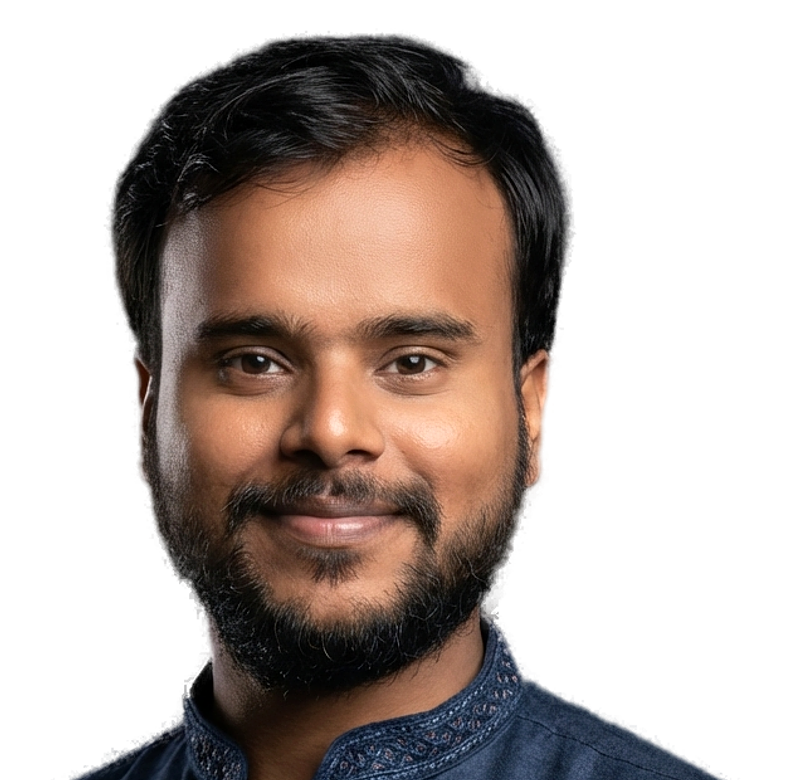
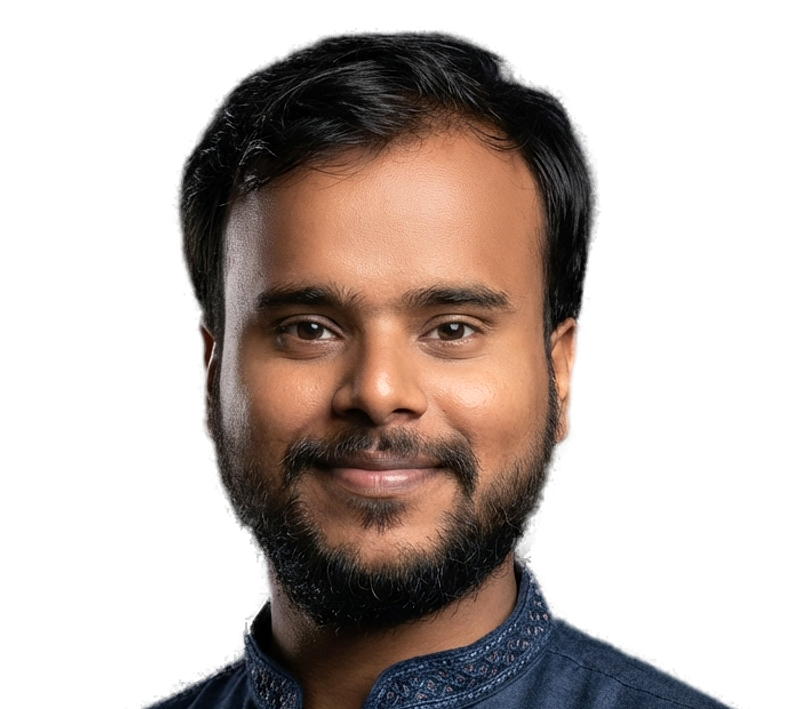
fix(about): moderate photo zoom, greeting visible above the head again, single-line I AM ANIKET MISHRA, remove Full-Stack outline text

diff --git a/app/about/AboutClientView.jsx b/app/about/AboutClientView.jsx
@@ -127,7 +127,7 @@ export default function AboutClientView() {
                   animate={{ opacity: 1 }}
                   transition={{ duration: 1, delay: 0.25 }}
                   aria-hidden="true"
-                  className="absolute inset-x-0 top-[24%] -translate-y-1/2 text-center font-serif italic font-bold text-[clamp(3.5rem,9.5vw,7rem)] leading-none text-[#4A3B33] select-none pointer-events-none whitespace-nowrap"
+                  className="absolute inset-x-0 top-[15%] -translate-y-1/2 text-center font-serif italic font-bold text-[clamp(3rem,8vw,6rem)] leading-none text-[#4A3B33] select-none pointer-events-none whitespace-nowrap"
                 >
                   Hey, there
                 </motion.div>
@@ -147,7 +147,7 @@ export default function AboutClientView() {
                   initial={{ opacity: 0, y: 26 }}
                   animate={{ opacity: 1, y: 0 }}
                   transition={{ duration: 0.8, delay: 0.2, ease: [0.16, 1, 0.3, 1] }}
-                  className="relative z-10 mx-auto w-[340px] sm:w-[460px] -mt-6 sm:-mt-10"
+                  className="relative z-10 mx-auto w-[330px] sm:w-[430px] mt-8 sm:mt-14"
                   style={{
                     maskImage: "linear-gradient(to bottom, black 76%, transparent 99%)",
                     WebkitMaskImage: "linear-gradient(to bottom, black 76%, transparent 99%)",
@@ -180,9 +180,9 @@ export default function AboutClientView() {
                 initial={{ opacity: 0, y: 30 }}
                 animate={{ opacity: 1, y: 0 }}
                 transition={{ duration: 0.8, delay: 0.45, ease: [0.16, 1, 0.3, 1] }}
-                className="font-serif font-black uppercase text-[#4A3B33] leading-[0.88] tracking-[-0.02em] text-[clamp(2.8rem,8vw,6rem)] -mt-2 lg:mt-2 lg:-translate-y-6"
+                className="font-serif font-black uppercase text-[#4A3B33] leading-[1] tracking-[-0.01em] text-[clamp(1.7rem,4.8vw,3.9rem)] mt-4 whitespace-nowrap"
               >
-                I am<br />Aniket
+                I am Aniket Mishra
               </motion.div>
 
               {/* Giant role — bottom right, OUTLINE style like the reference */}
